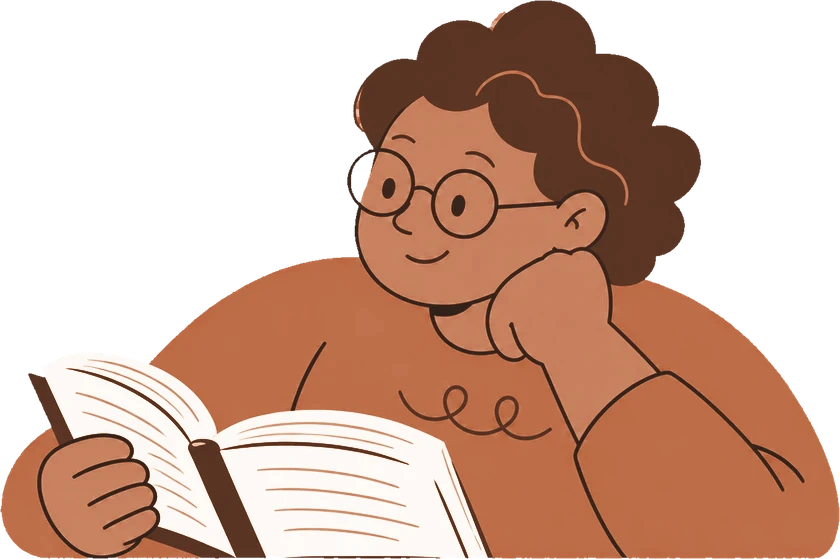
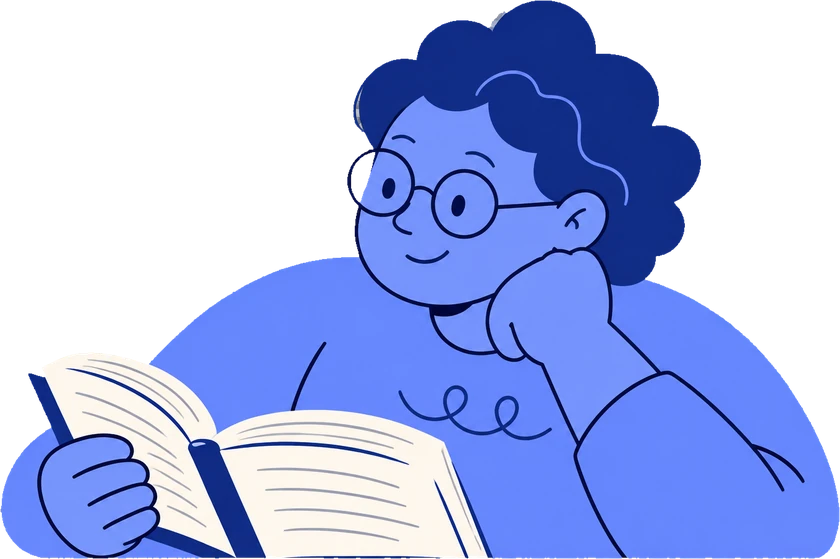
Illustrations : retour aux dessins d'origine en attendant la nouvelle identité
La recoloration uniforme ne convenait pas ; les personnages seront redessinés
(peau humaine sur tout le corps, coiffures, yeux, vêtements).

Claude-Session: https://claude.ai/code/session_01PU15sVuetb6ysNNZNdNBZ9

diff --git a/docs/ILLUSTRATIONS.md b/docs/ILLUSTRATIONS.md
@@ -44,10 +44,3 @@ Aînés : rides, cheveux gris ou blancs. Enfants : visage rond, grands yeux.
 Une fois les images obtenues, les déposer sous ces noms : l'app les utilise sans autre changement
 (les trois images `new-tab/*` sont aujourd'hui en `.webp` : remplacer par des `.png` du même nom et
 mettre à jour les deux `require` de `src/features/app-switcher/TabScreen/NewTab/`).
-
-## État actuel : dessins de Bible Strong recolorés
-
-En attendant de nouvelles illustrations, les quatorze images ci-dessus sont les dessins d'origine de
-Bible Strong, inchangés, passés dans les teintes d'Empreinte (terre, sauge, ocre, nuit, prune, sable,
-ardoise) par une carte de dégradé sur la luminosité. L'image Audio garde exactement son fond marine
-(#10284D), celui de sa carte : seuls ses violets sont passés au bleu.
